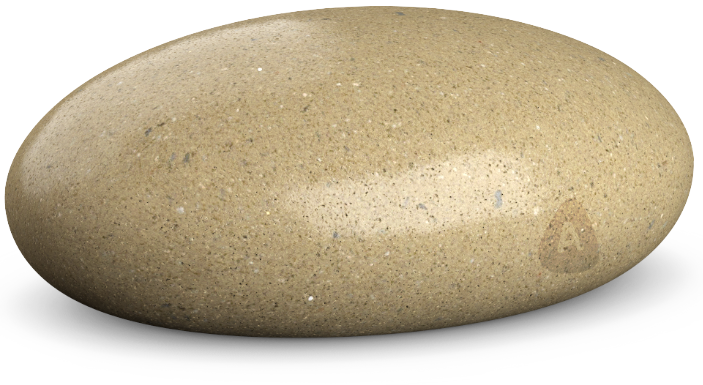
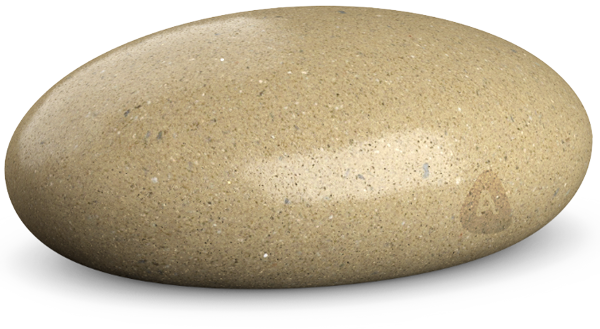
fix

diff --git a/index.html b/index.html
@@ -64,7 +64,7 @@
     <p>Introducing <span class="bold">A Stone</span> Doorstop. Made out of Danish high-quality stone. With <span class="bold">A Stone</span> Doorstop, you’ll never have to worry about stopping doors again! Simply place <span class="bold">A Stone</span> Doorstep between the door and the doorframe, and it wont shut!</p>
   </div>
   <div class="rightimg">
-    <img src="media/stonebuddy.png">
+    <img src="media/stonedoorstop.png">
   </div>
 </section>
 <section id="section-six" class="section">
@@ -78,7 +78,7 @@
 </section>
 <section id="section-seven" class="section">
   <div class="text left">
-    <img src="media/a-stone-doorstop-logo.png">
+    <img src="media/a-stone-paperweight-logo.png">
     <p>Even in our modern digital times, we still need to interact with paper. Bills, angry-complaints from neighbours, fines and job-rejection letters. Fear not, <span class="bold">A Stone</span> Paperweight, made out of high-quality Danish stone can keep it all on your desk.</p>
   </div>
   <div class="rightimg">

diff --git a/style.css b/style.css
@@ -107,10 +107,10 @@ nav a:hover{
 
 .imageoverlay{
   color: #000;
-  top: 200px;
+  top: 160px;
   position: absolute;
   text-align: center;
-  margin-left: 28%;
+  margin-left: 26%;
   left: 0;
   z-index: 100;
 }
@@ -212,7 +212,7 @@ nav a:hover{
 
 .foots{
   float: left;
-  margin: -360px 0 0 -200px
+  margin: 60px 0 0 -200px
 }
 
 footer{
